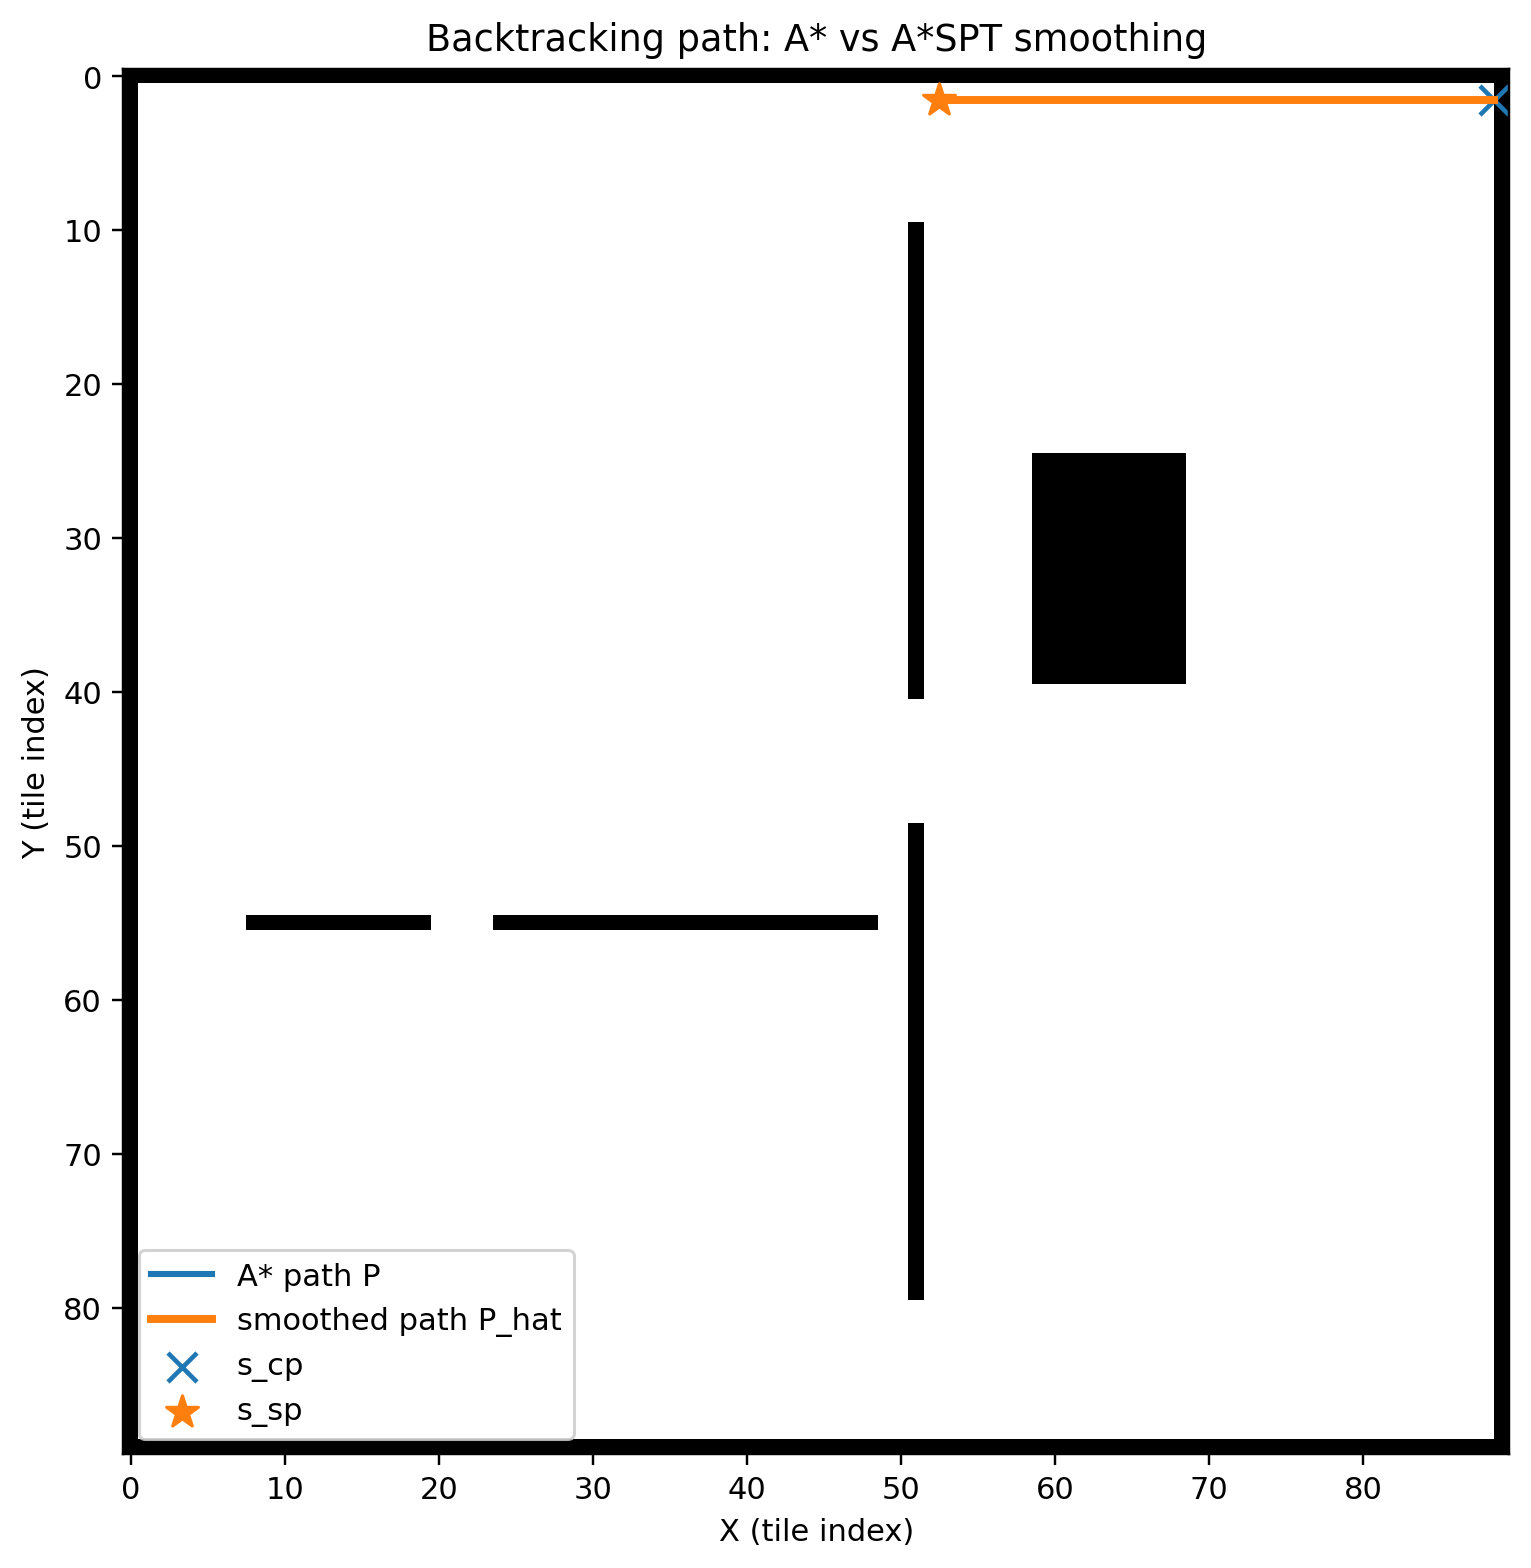
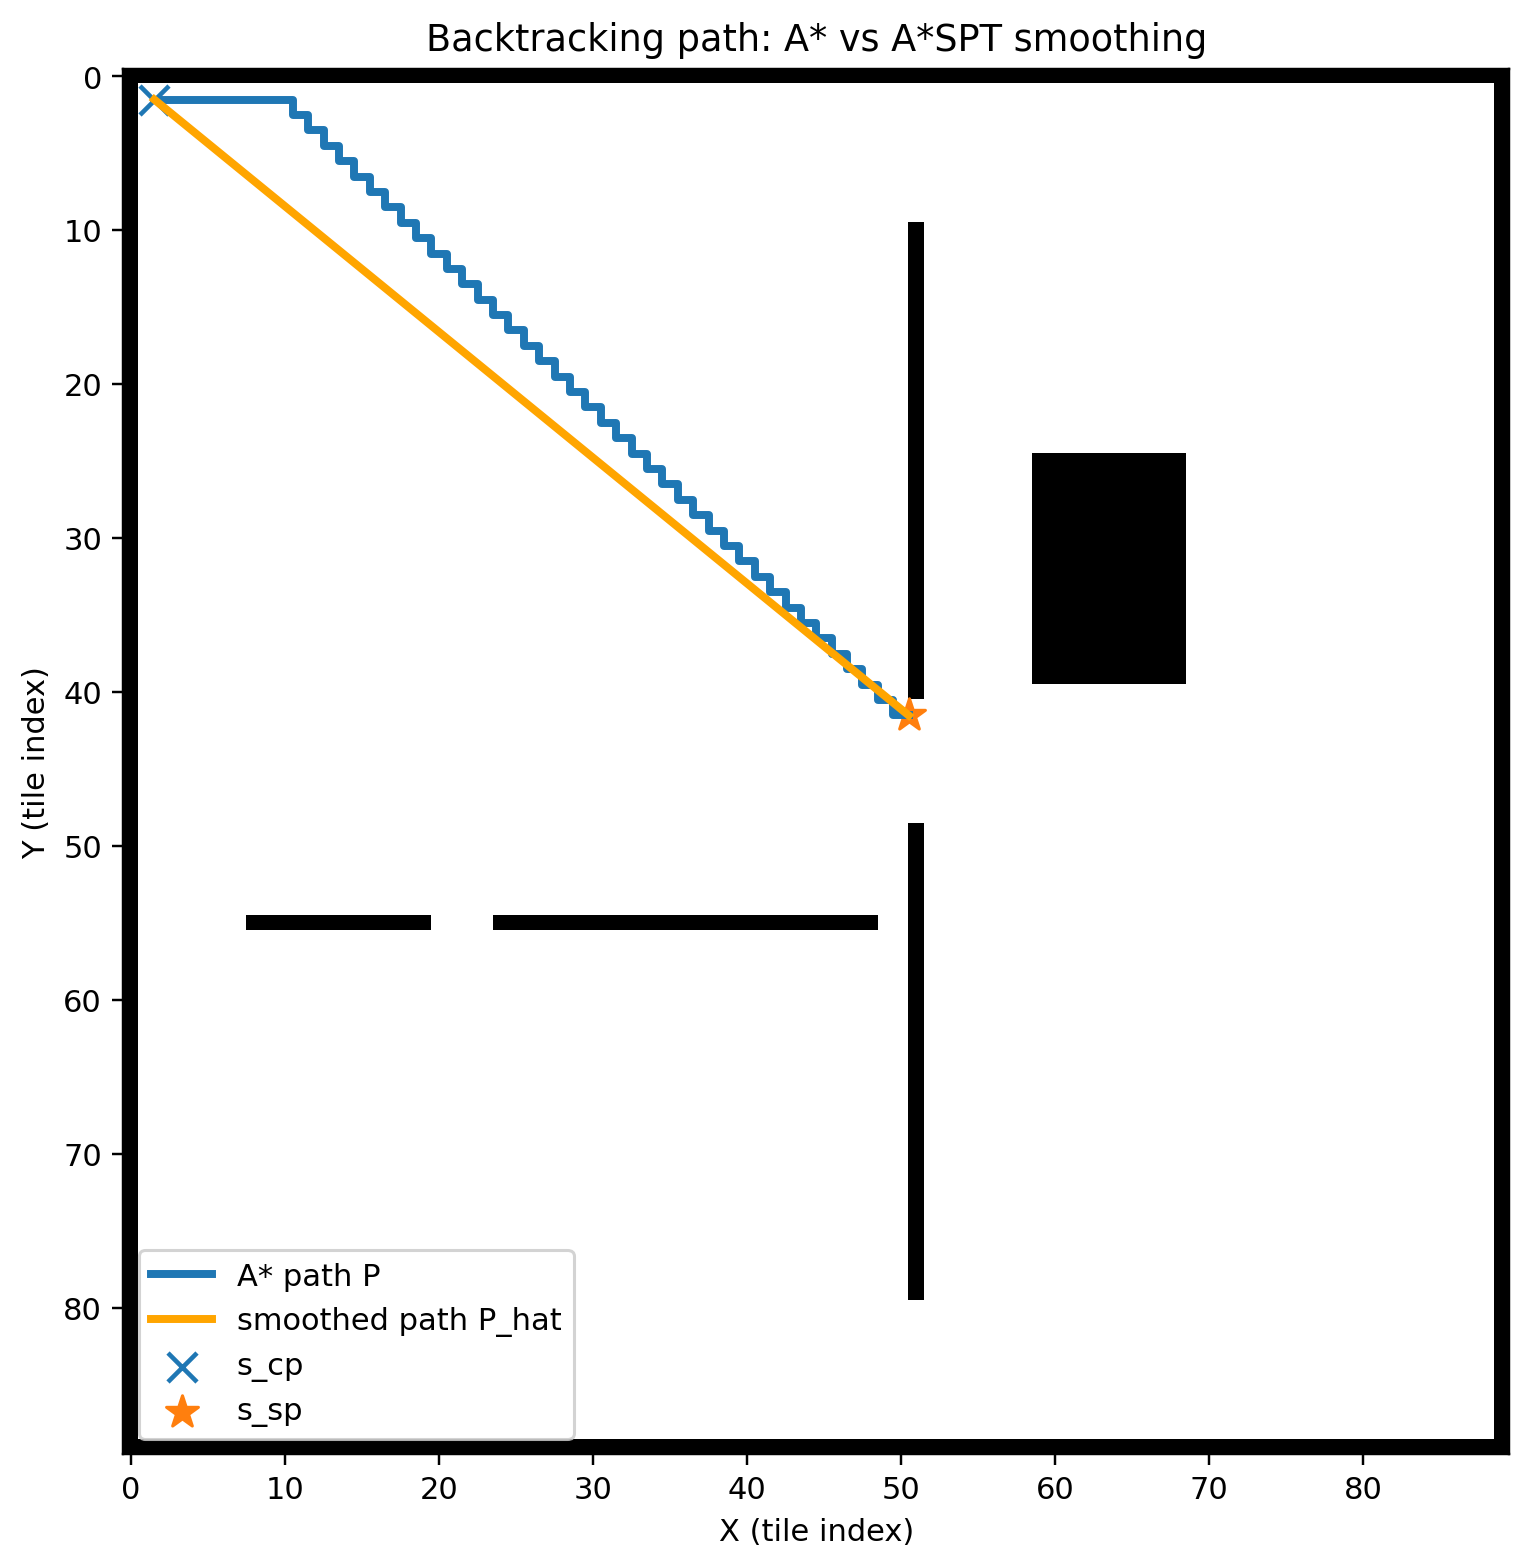
choose another event for smoothed path P_hat

diff --git a/scripts/run_unified.py b/scripts/run_unified.py
@@ -20,6 +20,7 @@ def main() -> int:
     ap.add_argument("--sense", type=str, default="N8", choices=["N8", "N4", "NONE"])
     ap.add_argument("--inflate", type=int, default=0)
     ap.add_argument("--prefer_cost", type=str, default="A_STAR", choices=["A_STAR", "EUCLIDEAN"])
+    ap.add_argument("--event_idx", type=int, default=6, help="Index of backtrack event to visualize (default: 6)")
     args = ap.parse_args()
 
     outdir = Path(args.outdir)
@@ -59,9 +60,11 @@ def main() -> int:
         start_point=scenario.start,
     )
 
-    # If we have a backtracking event, visualize the first one
+    # If we have a backtracking event, visualize the selected one
+    event_idx = min(args.event_idx, len(res.events) - 1) if res.events else 0
     if res.events:
-        ev = res.events[0]
+        ev = res.events[event_idx]
+        print(f"Visualizing event {event_idx}: s_cp={ev.s_cp}, s_sp={ev.s_sp}, astar_len={len(ev.astar_path)}, smooth_len={len(ev.smooth_path)}")
         viz.plot_candidates(
             scenario.grid,
             covered=res.covered_cells,

diff --git a/ba_star/viz.py b/ba_star/viz.py
@@ -73,9 +73,9 @@ def plot_astar_vs_smooth(grid: GridMap, s_cp: Coord, s_sp: Coord, astar_path: Li
     fig, ax = plt.subplots(figsize=(7, 7))
     plot_map(grid, ax=ax, title="Backtracking path: A* vs A*SPT smoothing")
     if astar_path:
-        plot_trajectory(ax, astar_path, linewidth=2.0, label="A* path P")
+        plot_trajectory(ax, astar_path, linewidth=2.6, label="A* path P")
     if smooth_path:
-        plot_trajectory(ax, smooth_path, linewidth=2.6, label="smoothed path P_hat")
+        plot_trajectory(ax, smooth_path, linewidth=2.6, label="smoothed path P_hat", color="orange")
     highlight_point(ax, s_cp, marker="x", size=90.0, label="s_cp")
     highlight_point(ax, s_sp, marker="*", size=120.0, label="s_sp")
     ax.legend(loc="lower left", framealpha=0.85)
